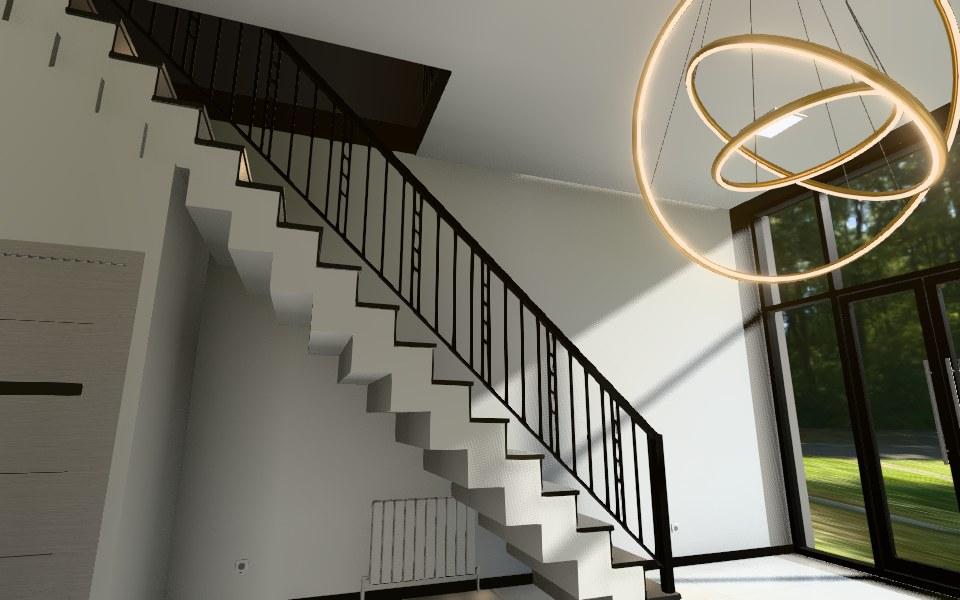
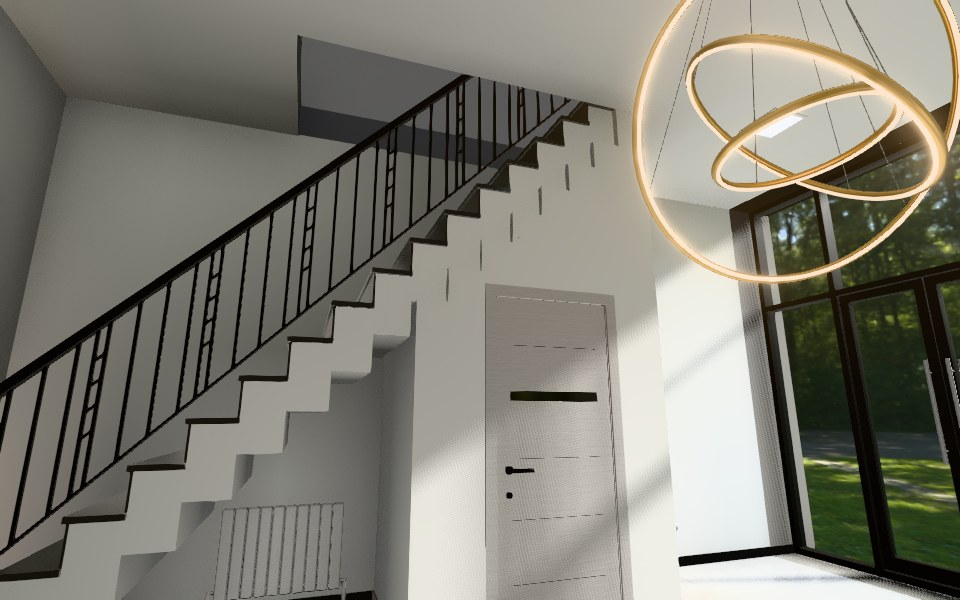
2-qavat: zina teshigi, kichik xona va tambur rasmlarga moslandi
- Zina sharqdan g'arbga ko'tariladi, 2-qavatga kichik xona ro'parasida chiqadi
- Teshik x 2.60-4.90; panjara shimoliy tomonda va sharqiy uchida
- Kichik xona (g'arbiy devor yonida) va eshiksiz tambur (ichida metall eshik)
- G'arbiy fasad: faqat burchakdagi tor oyna; gaz qozon ustun yuzasida
- 1-qavat: zina yo'nalishi o'zgardi, omborxona zinaning yuqori uchi ostida

Claude-Session: https://claude.ai/code/session_01P9pQftsdzTnGheRvDppN9w

diff --git a/web/src/stair.js b/web/src/stair.js
@@ -8,27 +8,28 @@ export function buildStair( mats ) {
 
 	const root = new THREE.Group();
 	root.name = 'stair';
-	const { x0, z0, z1, risers, rise: r, going: g } = STAIR;
+	const { x0, x1, z0, z1, risers, rise: r, going: g } = STAIR;
 	const steps = risers - 1;
 	const b = new Batch();
 
-	// Pog'onalar: oq suvoqli blok (pastki tomoni zinapoya shaklida), qora granit qoplama
+	// Pog'onalar (i = 0 — eng pastki, sharqda): oq suvoqli blok (pastki tomoni zinapoya shaklida),
+	// qora granit qoplama. Yurish yo'nalishi — g'arbga.
 	const underside = ( i ) => i * r - 0.18;
 	for ( let i = 0; i < steps; i ++ ) {
 
-		const sx = x0 + i * g;
+		const xe = x1 - i * g; // pog'onaning old (sharqiy) qirrasi
+		const xw = xe - g;
 		const top = ( i + 1 ) * r;
 		let bot = underside( i );
 		if ( bot < 0.15 ) bot = 0;
-		b.add( mats.plaster, box( sx, sx + g + 0.001, bot, top - 0.03, z0, z1 ) );
-		b.add( mats.granite, box( sx - 0.025, sx + g, top - 0.03, top, z0 - 0.02, z1 ) ); // pog'ona yuzasi
-		b.add( mats.granite, box( sx - 0.012, sx, top - r, top - 0.03, z0, z1 ) ); // tik yuza
+		b.add( mats.plaster, box( xw - 0.001, xe, bot, top - 0.03, z0, z1 ) );
+		b.add( mats.granite, box( xw, xe + 0.025, top - 0.03, top, z0 - 0.02, z1 ) ); // pog'ona yuzasi
+		b.add( mats.granite, box( xe, xe + 0.012, top - r, top - 0.03, z0, z1 ) ); // tik yuza
 
 	}
 
-	// Oxirgi (18-) ko'tarilish — orayopma qirrasi
-	b.add( mats.granite, box( STAIR.x1 - 0.012, STAIR.x1, FF - r, FF, z0, z1 ) );
-	b.add( mats.granite, box( STAIR.x1, 6.5, FF - 0.04, FF - 0.01, z0 - 0.02, z1 ) );
+	// Oxirgi (18-) ko'tarilish — 2-qavat orayopmasi qirrasi
+	b.add( mats.granite, box( x0, x0 + 0.012, FF - r, FF - 0.01, z0, z1 ) );
 
 	root.add( b.build( { name: 'steps' } ) );
 
@@ -44,8 +45,8 @@ export function buildStair( mats ) {
 
 function pitch( x ) {
 
-	const { x0, rise: r, going: g } = STAIR;
-	return r + ( x - x0 ) * r / g;
+	const { x1, rise: r, going: g } = STAIR;
+	return r + ( x1 - x ) * r / g;
 
 }
 
@@ -57,29 +58,30 @@ function buildRailings( mats ) {
 	const HR = 0.92; // tutqich balandligi
 	const BR = 0.1; // pastki planka
 
-	const xa = STAIR.x0 + 0.03, xb = STAIR.x1;
+	const xa = STAIR.x1 - 0.03, xb = STAIR.x0; // pastki (sharq) → yuqori (g'arb)
 	// qiya tutqich va pastki planka
 	b.add( M, beam( V( xa, pitch( xa ) + HR, zr ), V( xb, pitch( xb ) + HR, zr ), 0.045, 0.045 ) );
 	b.add( M, beam( V( xa, pitch( xa ) + BR, zr ), V( xb, pitch( xb ) + BR, zr ), 0.012, 0.04 ) );
-	// boshlang'ich ustuncha
+	// boshlang'ich ustuncha (pastda, sharqda)
 	b.add( M, box( xa - 0.03, xa + 0.03, 0, pitch( xa ) + HR + 0.03, zr - 0.03, zr + 0.03 ) );
 
 	// Balyasinalar (geometrik naqsh: yakka + "zinapoya" juftlik)
-	panelPattern( b, M, xa + 0.06, xb - 0.04, ( x ) => pitch( x ) + BR, ( x ) => pitch( x ) + HR, ( x, y0, y1 ) => [ V( x, y0, zr ), V( x, y1, zr ) ], 'x' );
+	panelPattern( b, M, xb + 0.04, xa - 0.06, ( x ) => pitch( x ) + BR, ( x ) => pitch( x ) + HR, ( x, y0, y1 ) => [ V( x, y0, zr ), V( x, y1, zr ) ], 'x' );
 
-	// 2-qavatdagi to'siq (teshik atrofida)
+	// 2-qavatdagi to'siq: teshikning shimoliy tomoni va sharqiy uchi (g'arb uchi — chiqish maydonchasi)
 	const y0 = FF;
 	const zn = OPENING.z0 - 0.04;
-	const xw = OPENING.x0 - 0.04;
-	b.add( M, box( xw - 0.0225, xb + 0.0225, y0 + HR - 0.0225, y0 + HR + 0.0225, zn - 0.0225, zn + 0.0225 ) );
-	b.add( M, box( xw, xb, y0 + BR - 0.006, y0 + BR + 0.006, zn - 0.02, zn + 0.02 ) );
-	b.add( M, box( xw - 0.0225, xw + 0.0225, y0 + HR - 0.0225, y0 + HR + 0.0225, zn, OPENING.z1 ) );
-	b.add( M, box( xw - 0.02, xw + 0.02, y0 + BR - 0.006, y0 + BR + 0.006, zn, OPENING.z1 ) );
-	b.add( M, box( xw - 0.03, xw + 0.03, y0, y0 + HR + 0.03, zn - 0.03, zn + 0.03 ) );
+	const xw = OPENING.x0;
+	const xe = OPENING.x1 + 0.04;
+	b.add( M, box( xw - 0.0225, xe + 0.0225, y0 + HR - 0.0225, y0 + HR + 0.0225, zn - 0.0225, zn + 0.0225 ) );
+	b.add( M, box( xw, xe, y0 + BR - 0.006, y0 + BR + 0.006, zn - 0.02, zn + 0.02 ) );
+	b.add( M, box( xe - 0.0225, xe + 0.0225, y0 + HR - 0.0225, y0 + HR + 0.0225, zn, OPENING.z1 ) );
+	b.add( M, box( xe - 0.02, xe + 0.02, y0 + BR - 0.006, y0 + BR + 0.006, zn, OPENING.z1 ) );
+	for ( const x of [ xw, xe ] ) b.add( M, box( x - 0.03, x + 0.03, y0, y0 + HR + 0.03, zn - 0.03, zn + 0.03 ) );
 	// tayanch ustunchalar (pastki planka polga)
-	for ( let x = xw + 0.6; x < xb; x += 0.6 ) b.add( M, box( x - 0.01, x + 0.01, y0, y0 + BR, zn - 0.01, zn + 0.01 ) );
-	panelPattern( b, M, xw + 0.06, xb - 0.04, () => y0 + BR, () => y0 + HR, ( x, a, c ) => [ V( x, a, zn ), V( x, c, zn ) ], 'x' );
-	panelPattern( b, M, zn + 0.06, OPENING.z1 - 0.04, () => y0 + BR, () => y0 + HR, ( z, a, c ) => [ V( xw, a, z ), V( xw, c, z ) ], 'z' );
+	for ( let x = xw + 0.6; x < xe; x += 0.6 ) b.add( M, box( x - 0.01, x + 0.01, y0, y0 + BR, zn - 0.01, zn + 0.01 ) );
+	panelPattern( b, M, xw + 0.06, xe - 0.06, () => y0 + BR, () => y0 + HR, ( x, a, c ) => [ V( x, a, zn ), V( x, c, zn ) ], 'x' );
+	panelPattern( b, M, zn + 0.06, OPENING.z1 - 0.04, () => y0 + BR, () => y0 + HR, ( z, a, c ) => [ V( xe, a, z ), V( xe, c, z ) ], 'z' );
 
 	return b.build( { name: 'railing' } );
 
@@ -126,31 +128,33 @@ function buildWC( mats ) {
 	const { rise: r, going: g } = STAIR;
 	const b = new Batch();
 
-	// Old devor: pastki qirrasi zinapoya ostiga mos (zinapoyasimon)
-	const pts = [ [ x0, 0 ], [ door.x0, 0 ], [ door.x0, door.h ], [ door.x1, door.h ], [ door.x1, 0 ], [ x1, 0 ], [ x1, H ], [ STAIR.x1, H ] ];
-	for ( let i = STAIR.risers - 2; i >= 0; i -- ) {
+	// Old devor: yuqori qirrasi zinapoya ostiga mos (zinapoyasimon), g'arb uchi — shiftgacha
+	const pts = [ [ x0, 0 ], [ door.x0, 0 ], [ door.x0, door.h ], [ door.x1, door.h ], [ door.x1, 0 ], [ x1, 0 ] ];
+	for ( let i = 0; i < STAIR.risers - 1; i ++ ) {
 
-		const sx = STAIR.x0 + i * g;
+		const xe = STAIR.x1 - i * g, xw = xe - g;
+		if ( xw >= x1 ) continue;
 		const y = Math.max( 0, i * r - 0.18 );
-		const xr = sx + g;
-		if ( xr <= x0 ) break;
-		pts.push( [ Math.min( xr, STAIR.x1 ), y ] );
-		pts.push( [ Math.max( sx, x0 ), y ] );
+		pts.push( [ Math.min( xe, x1 ), y ] );
+		pts.push( [ Math.max( xw, x0 ), y ] );
 
 	}
+
+	pts.push( [ STAIR.x0, H ], [ x0, H ] );
 
 	const shape = new THREE.Shape( pts.map( ( [ x, y ] ) => new THREE.Vector2( x, y ) ) );
 	const eg = new THREE.ExtrudeGeometry( shape, { depth: t, bevelEnabled: false } );
 	eg.translate( 0, 0, z0 );
 	b.add( mats.wall, eg );
 
-	// Yon devor (x = x0)
-	const yi = Math.floor( ( x0 - STAIR.x0 ) / g );
-	b.add( mats.wall, box( x0, x0 + t, 0, yi * r - 0.18, z0 + t, WC.z1 ) );
+	// Yon devorlar
+	const ie = Math.floor( ( STAIR.x1 - x1 ) / g );
+	b.add( mats.wall, box( x1 - t, x1, 0, ie * r - 0.18, z0 + t, WC.z1 ) );
+	b.add( mats.wall, box( x0, x0 + t, 0, H, z0 + t, WC.z1 ) );
 	// Plintus
 	b.add( mats.skirting, box( x0 - 0.012, door.x0 - 0.07, 0, 0.08, z0 - 0.012, z0 ) );
 	b.add( mats.skirting, box( door.x1 + 0.07, x1, 0, 0.08, z0 - 0.012, z0 ) );
-	b.add( mats.skirting, box( x0 - 0.012, x0, 0, 0.08, z0, WC.z1 ) );
+	b.add( mats.skirting, box( x1, x1 + 0.012, 0, 0.08, z0, WC.z1 ) );
 
 	// ---------- Eshik (kulrang eman, qora shisha chiziq) ----------
 	const dz = z0 - 0.0; // xona tomoni

diff --git a/web/src/floor2.js b/web/src/floor2.js
@@ -1,7 +1,7 @@
 import * as THREE from 'three';
 import { RoundedBoxGeometry } from 'three/addons/geometries/RoundedBoxGeometry.js';
 import { OPENING } from './plan.js';
-import { Y2, H2, BEAM_D, ROOF_T, XJ, OUTLINE2, COLS2, GLAZING2, TRANSOMS2, PARTITIONS2, BEAMS2, PANELS2, SPOTS2, RADIATORS2 } from './plan2.js';
+import { Y2, H2, BEAM_D, ROOF_T, XJ, OUTLINE2, COLS2, GLAZING2, TRANSOMS2, PARTITIONS2, BEAMS2, PANELS2, SPOTS2, RADIATORS2, NOOK2 } from './plan2.js';
 import { Batch, box, worldUV } from './geo.js';
 import { buildGlazingRun } from './glazing.js';
 import { addRadiators } from './fixtures.js';
@@ -67,7 +67,22 @@ export function buildFloor2( mats, m2 ) {
 	};
 
 	band( - 0.3, 23.65, - 0.3, 0 );
-	band( - 0.3, 0, 0, 8.75 );
+	band( - 0.3, 0, 0, 1.9 );
+	w.add( W, box( - 0.3, 0, yb, yt, 1.9, 8.75 ) ); // g'arbiy devor (oynasiz qism)
+
+	// Tambur old devori: o'rtasida eshiksiz o'tish joyi
+	{
+
+		const n = NOOK2, t0 = n.x1 - 0.12;
+		w.add( W, box( t0, n.x1, Y2, TOP, n.z0, n.open[ 0 ] ) );
+		w.add( W, box( t0, n.x1, Y2 + DOOR_H + 0.15, TOP, n.open[ 0 ], n.open[ 1 ] ) );
+		w.add( W, box( t0, n.x1, Y2, TOP, n.open[ 1 ], n.z1 ) );
+		// o'tish joyi ramkasi
+		for ( const z of n.open ) w.add( m2.pvc, box( t0 - 0.01, n.x1 + 0.01, Y2, Y2 + DOOR_H + 0.15, z - 0.03, z + 0.03 ) );
+		w.add( m2.pvc, box( t0 - 0.01, n.x1 + 0.01, Y2 + DOOR_H + 0.12, Y2 + DOOR_H + 0.18, n.open[ 0 ], n.open[ 1 ] ) );
+
+	}
+
 	band( 15.7, 16.0, 9.93, 14.95 );
 	band( 16.4, 18.75, 17.01, 17.31 );
 	band( 20.65, 22.95, 17.01, 17.31 );
@@ -105,11 +120,13 @@ export function buildFloor2( mats, m2 ) {
 	const skz = ( z, x0, x1, side ) => w.add( S, box( x0, x1, Y2, Y2 + SK_H, z, z + side * SK_T ) );
 	skx( 23.35, 1.0, 3.57, - 1 ); skx( 23.35, 4.56, 9.0, - 1 ); skx( 23.35, 9.95, 11.6, - 1 );
 	skx( 23.35, 11.72, 14.95, - 1 ); skx( 23.35, 15.94, 16.45, - 1 );
-	skz( 8.75, 0.0, OPENING.x0 - 0.05, - 1 ); skz( 8.75, OPENING.x1, 15.375, - 1 );
+	skz( 8.75, 2.0, OPENING.x0, - 1 ); skz( 8.75, OPENING.x1 + 0.05, 15.375, - 1 );
+	skx( 0, 4.18, 5.6, 1 ); skx( 0.75, 3.8, 3.68, 1 );
+	skx( 2.0, 5.6, 8.75, 1 ); skz( 5.6, 0, 0.28, - 1 ); skz( 5.6, 1.22, 2.0, - 1 ); skx( 1.4, 1.9, 2.35, 1 ); skx( 1.4, 3.25, 3.8, 1 );
 	skx( 15.375, 4.56, 8.75, - 1 ); skx( 15.55, 4.56, 8.75, 1 );
 	skx( 16.0, 8.75, 8.94, 1 );
 	let sx = 16.0;
-	for ( const d of doors ) {
+	for ( const d of doors.filter( ( q ) => q.x0 > 15 ) ) {
 
 		skz( 11.6, sx, d.x0 - 0.07, - 1 ); skz( 11.72, sx, d.x0 - 0.07, 1 ); sx = d.x1 + 0.07;
 
@@ -135,8 +152,8 @@ export function buildFloor2( mats, m2 ) {
 
 	// ---------- Eshiklar ----------
 	for ( const d of doors ) addDoor( w, m2, d );
-	// chap blokdagi to'q rangli metall eshik (rasm 02)
-	addSurfaceDoor( w, m2, 1.15, 2.05, 8.75 );
+	// tambur ichidagi to'q rangli metall eshik (rasm 02, 12, 13) — g'arbiy devorda
+	addSurfaceDoorX( w, m2, 2.35, 3.25, 0 );
 
 	// Zina teshigi atrofidagi pol qirrasi va ostona chiziqlari
 	w.add( m2.threshold, box( XJ - 0.015, XJ + 0.015, Y2, Y2 + 0.004, 1.0, 3.57 ) );
@@ -144,7 +161,7 @@ export function buildFloor2( mats, m2 ) {
 
 	// ---------- Radiatorlar, gaz qozon, rozetkalar ----------
 	addRadiators( w, m2, RADIATORS2, Y2 );
-	addBoiler( w, m2, 23.35, 2.3 );
+	addBoiler( w, m2, 7.59, 1.0, 0 ); // rasm 12: qozon ustunning janubiy yuzasida
 	for ( const [ x, z, nx, nz ] of [ [ 23.35, 6.0, - 1, 0 ], [ 9.0, 8.75, 0, - 1 ], [ 15.375, 5.4, - 1, 0 ], [ 17.0, 11.72, 0, 1 ], [ 22.6, 11.72, 0, 1 ], [ 19.0, 11.6, 0, - 1 ] ] ) addSocket( w, m2, x, Y2 + 0.32, z, nx, nz );
 
 	root.add( w.build( { name: 'floor2-walls' } ) );
@@ -258,19 +275,19 @@ function addDoor( b, m2, d ) {
 
 }
 
-// Devor yuzasiga o'rnatilgan metall eshik (janubiy devor, shimolga qaragan)
-function addSurfaceDoor( b, m2, x0, x1, z ) {
+// Devor yuzasidagi metall eshik (x = const devor, sharqqa qaragan)
+function addSurfaceDoorX( b, m2, z0, z1, x ) {
 
-	b.add( m2.metalDoor, box( x0 - 0.05, x1 + 0.05, Y2, Y2 + DOOR_H + 0.05, z - 0.02, z ) );
-	b.add( m2.metalDoor, box( x0, x1, Y2 + 0.005, Y2 + DOOR_H, z - 0.045, z - 0.02 ) );
-	for ( let y = 0.3; y < DOOR_H - 0.1; y += 0.16 ) b.add( m2.blackMetal, box( x0 + 0.06, x1 - 0.06, Y2 + y, Y2 + y + 0.006, z - 0.047, z - 0.044 ) );
-	b.add( m2.chrome, box( x1 - 0.16, x1 - 0.04, Y2 + 1.0, Y2 + 1.02, z - 0.1, z - 0.08 ) );
+	b.add( m2.metalDoor, box( x, x + 0.02, Y2, Y2 + DOOR_H + 0.05, z0 - 0.05, z1 + 0.05 ) );
+	b.add( m2.metalDoor, box( x + 0.02, x + 0.045, Y2 + 0.005, Y2 + DOOR_H, z0, z1 ) );
+	for ( let y = 0.3; y < DOOR_H - 0.1; y += 0.16 ) b.add( m2.blackMetal, box( x + 0.044, x + 0.047, Y2 + y, Y2 + y + 0.006, z0 + 0.06, z1 - 0.06 ) );
+	b.add( m2.chrome, box( x + 0.08, x + 0.1, Y2 + 1.0, Y2 + 1.02, z1 - 0.16, z1 - 0.04 ) );
 
 }
 
-function addBoiler( b, m2, x, z ) {
+function addBoiler( b, m2, x, z, rotY = - Math.PI / 2 ) {
 
-	const m = new THREE.Matrix4().makeRotationY( - Math.PI / 2 ).setPosition( x, Y2, z );
+	const m = new THREE.Matrix4().makeRotationY( rotY ).setPosition( x, Y2, z );
 	b.add( m2.boiler, new RoundedBoxGeometry( 0.42, 0.72, 0.3, 3, 0.03 ).translate( 0, 1.75, 0.16 ), m );
 	b.add( m2.boilerGrey, box( - 0.17, 0.17, 1.4, 1.43, 0.04, 0.29 ), m );
 	b.add( m2.darkGlass, box( - 0.08, 0.08, 1.62, 1.68, 0.305, 0.312 ), m );

diff --git a/web/src/plan2.js b/web/src/plan2.js
@@ -42,16 +42,25 @@ export const GLAZING2 = [
 	{ id: 'n1', a: [ 0.75, G ], b: [ 7.3, G ], mullions: [ 1.62, 3.27, 4.92 ], sash: [ 1 ] },
 	{ id: 'n2', a: [ 7.875, G ], b: [ 15.375, G ], mullions: [ 1.5, 3.0, 4.5, 6.0 ], sash: [ 2 ] },
 	{ id: 'n3', a: [ 15.95, G ], b: [ 23.2, G ], mullions: [ 1.45, 2.9, 4.35, 5.8 ], sash: [ 1, 3 ] },
-	{ id: 'w1', a: [ G, 3.68 ], b: [ G, 0.53 ], mullions: [ 1.57 ], sash: [ 0 ] },
-	{ id: 'w2', a: [ G, 8.75 ], b: [ G, 4.18 ], mullions: [ 1.52, 3.05 ], sash: [ 1 ] },
+	// G'arbiy fasad: faqat shimoliy burchakdagi tor oyna (rasm 12): qolgani devor, kichik xona va eshik o'rni
+	{ id: 'w1', a: [ G, 1.9 ], b: [ G, 0.53 ], mullions: [ 0.69 ], sash: [] },
 	{ id: 'e-w', a: [ 16.0 + G, 14.95 ], b: [ 16.0 + G, 9.93 ], mullions: [ 1.25, 2.5, 3.75 ], sash: [ 1 ] },
 	{ id: 's-a', a: [ 18.75, 17.01 - G ], b: [ 16.4, 17.01 - G ], mullions: [ 0.6, 1.75 ], sash: [ 1 ] },
 	{ id: 's-b', a: [ 22.95, 17.01 - G ], b: [ 20.65, 17.01 - G ], mullions: [ 0.55, 1.75 ], sash: [ 1 ] },
 ];
 export const TRANSOMS2 = [ 0.9, 3.0 ];
 
+// Zina ro'parasidagi kichik xona (rasm 12: zina teshigi uning devoriga taqaladi)
+export const SMALLROOM2 = { x0: 0, x1: 2.0, z0: 5.6, z1: 8.75 };
+// Orqadagi kichik ochiq joy (tambur): ichida to'q rangli metall eshik (rasm 12, 13)
+export const NOOK2 = { x0: 0, x1: 1.4, z0: 1.9, z1: 3.68, open: [ 2.35, 3.25 ] };
+
 // Ichki devorlar: [x0, x1, z0, z1] (balandligi to'liq)
 export const PARTITIONS2 = [
+	{ x0: 0, x1: 2.0, z0: 5.6, z1: 5.72, doors: [ [ 0.35, 1.15, 'white' ] ] }, // kichik xona shimoliy devori
+	{ x0: 1.88, x1: 2.0, z0: 5.72, z1: 8.75 }, // kichik xona sharqiy devori (zina shu devorga taqaladi)
+	{ x0: 0, x1: 1.4, z0: 1.78, z1: 1.9 }, // tambur shimoliy devori
+	{ x0: 0.75, x1: 1.4, z0: 3.68, z1: 3.8 }, // tambur janubiy devori (ustungacha)
 	{ x0: 15.375, x1: 15.55, z0: 4.56, z1: 8.75 }, // chap blok va o'ng qanot orasidagi devor
 	{ x0: 16.0, x1: 23.35, z0: 11.6, z1: 11.72, doors: [ [ 17.25, 18.15, 'pvc' ], [ 19.25, 20.05, 'white' ], [ 21.2, 22.1, 'pvc' ] ] },
 	{ x0: 18.75, x1: 18.87, z0: 11.72, z1: 17.01 },
@@ -86,7 +95,9 @@ export const PANELS2 = ( () => {
 
 			const x = xa + ( i + 0.5 ) * ( xb - xa ) / nx;
 			const z = za + ( k + 0.5 ) * ( zb - za ) / nz;
-			if ( x > 3.6 && x < 6.6 && z > 7.2 ) continue; // zina teshigi ustida emas
+			if ( x > 2.2 && x < 5.2 && z > 7.2 ) continue; // zina teshigi ustida emas
+			if ( x < 2.1 && z > 5.5 ) continue; // kichik xona
+			if ( x < 1.5 && z > 1.7 && z < 3.9 ) continue; // tambur
 			out.push( [ x, z ] );
 
 		}

diff --git a/web/src/plan.js b/web/src/plan.js
@@ -33,9 +33,10 @@ export const GLAZING = [
 	{ id: 'west-s', a: [GLASS_LINE, 8.75], b: [GLASS_LINE, 4.18], mullions: [0.8, 2.25, 3.4], transom: 2.45, doors: [{ t0: 0.8, t1: 2.25, h: 2.45 }] },
 ];
 
-// Zina: janubiy devor bo'ylab, g'arbdan sharqqa ko'tariladi
+// Zina: janubiy devor bo'ylab, SHARQDAN G'ARBGA ko'tariladi (2-qavat rasmlari: 2-qavatga g'arb uchida,
+// kichik xona ro'parasida chiqadi). x1 — pastki pog'ona (sharq), x0 — yuqori chiqish (g'arb).
 export const STAIR = {
-	x0: 2.37,
+	x0: 2.6,
 	x1: 6.3,
 	z0: 7.6,
 	z1: 8.75,
@@ -44,11 +45,11 @@ export const STAIR = {
 STAIR.rise = FF / STAIR.risers;
 STAIR.going = ( STAIR.x1 - STAIR.x0 ) / ( STAIR.risers - 1 );
 
-// Shiftdagi zina teshigi
-export const OPENING = { x0: 3.9, x1: 6.3, z0: 7.55, z1: 8.75 };
+// Shiftdagi (2-qavat polidagi) zina teshigi — yuqori uchi ustida
+export const OPENING = { x0: 2.6, x1: 4.9, z0: 7.55, z1: 8.75 };
 
-// Zina ostidagi xona (WC / omborxona) va eshik
-export const WC = { x0: 5.44, x1: 6.5, z0: 7.55, z1: 8.75, t: 0.1, door: { x0: 5.58, x1: 6.38, h: 2.05 } };
+// Zina yuqori uchi ostidagi kichik xona (omborxona) va eshik
+export const WC = { x0: 2.37, x1: 4.1, z0: 7.55, z1: 8.75, t: 0.1, door: { x0: 2.8, x1: 3.6, h: 2.05 } };
 
 // Qandillar
 export const CHANDELIERS = [
@@ -66,7 +67,7 @@ export const PANELS = [
 
 // Radiatorlar: markaz, devor normali yo'nalishi (xonaga), seksiyalar soni
 export const RADIATORS = [
-	{ x: 3.75, z: 8.75, nx: 0, nz: - 1, n: 10 },
+	{ x: 4.75, z: 8.75, nx: 0, nz: - 1, n: 10 },
 	{ x: 7.3, z: 2.2, nx: - 1, nz: 0, n: 10 },
 	{ x: 7.3, z: 5.05, nx: - 1, nz: 0, n: 8 },
 ];

diff --git a/web/src/main.js b/web/src/main.js
@@ -46,11 +46,11 @@ const VIEWS = [
 	{ floor: 1, id: 'zina', name: 'Zina', pos: [ 4.7, 1.3, 4.7 ], target: [ 3.3, 2.3, 8.7 ] },
 	{ floor: 1, id: 'burchak', name: 'Burchak', pos: [ 6.4, 1.6, 0.7 ], target: [ 1.0, 1.4, 6.8 ] },
 	{ floor: 1, id: 'tepadan', name: 'Tepadan', pos: [ 1.2, 12.5, 11.0 ], target: [ 3.65, 0, 4.4 ] },
-	{ floor: 2, id: 'zal', name: 'Zal', pos: [ 13.8, 3.9 + 1.6, 7.6 ], target: [ 0.8, 3.9 + 1.4, 1.6 ] },
+	{ floor: 2, id: 'zal', name: 'Zal', pos: [ 13.8, 3.9 + 1.6, 7.9 ], target: [ 2.0, 3.9 + 1.2, 3.0 ] },
 	{ floor: 2, id: 'qanot', name: 'Qanot', pos: [ 19.6, 3.9 + 1.6, 11.1 ], target: [ 19.4, 3.9 + 1.45, 0.5 ] },
 	{ floor: 2, id: 'ustunlar', name: 'Ustunlar', pos: [ 22.4, 3.9 + 1.65, 1.3 ], target: [ 12.0, 3.9 + 1.0, 7.5 ] },
 	{ floor: 2, id: 'ofis', name: 'Ofis xona', pos: [ 17.4, 3.9 + 1.55, 12.1 ], target: [ 17.4, 3.9 + 1.4, 17.0 ] },
-	{ floor: 2, id: 'zina2', name: 'Zina', pos: [ 9.2, 3.9 + 1.6, 5.8 ], target: [ 4.6, 3.9 + 0.3, 8.2 ] },
+	{ floor: 2, id: 'zina2', name: 'Zina', pos: [ 8.3, 3.9 + 1.55, 2.1 ], target: [ 0.4, 3.9 + 1.2, 5.9 ] },
 	{ floor: 2, id: 'tepadan2', name: 'Tepadan', pos: [ 5.5, 3.9 + 15.5, 22.5 ], target: [ 11.7, 3.9, 8.0 ] },
 ];
 
@@ -238,7 +238,9 @@ async function main() {
 				...COLS2.map( ( c ) => [ c.x0, c.x1, c.z0, c.z1 ] ),
 				...PARTITIONS2.slice( 0, 1 ).map( ( c ) => [ c.x0, c.x1, c.z0, c.z1 ] ),
 				[ 16.0, 23.35, 11.6, 17.01 ],
-				[ 3.85, 6.5, 7.45, 8.75 ],
+				[ 2.55, 4.95, 7.45, 8.75 ],
+				[ 0, 2.0, 5.6, 8.75 ],
+				[ 0, 1.4, 1.78, 3.8 ],
 			],
 		},
 	};

diff --git a/web/src/walk.js b/web/src/walk.js
@@ -21,7 +21,7 @@ export class WalkControls {
 			poly: ROOM, eye: EYE, start: [ 2.2, 6.2 ],
 			blockers: [
 				...COLUMNS.map( ( c ) => [ c.x0, c.x1, c.z0, c.z1 ] ),
-				[ STAIR.x0 - 0.05, 6.5, STAIR.z0 - 0.05, 8.75 ],
+				[ STAIR.x0 - 0.05, STAIR.x1 + 0.1, STAIR.z0 - 0.05, 8.75 ],
 				[ WC.x0, WC.x1, WC.z0, WC.z1 ],
 			],
 		};

diff --git a/docs/TZ-2-qavat.md b/docs/TZ-2-qavat.md
@@ -70,7 +70,11 @@
 | Ofis A (janubi-g'arb) | 2.75 × 5.3 m, janub va g'arb tomonlari oyna | rasm 08 (oynadan ko'cha va mashinalar ko'rinadi) |
 | Ofis B (janubi-sharq) | 2.55 × 5.3 m, janubi oyna | rasm 04 |
 | Yoritish | chap blok va ofislarda 0.45 m kvadrat panellar, o'ng qanot zalida yumaloq spotlar; ochiq qora kabellar to'sinlar ostidan aylanib o'tadi | rasm 02, 05, 06, 07 |
-| Zina teshigi | 1-qavatdagi qora geometrik panjara; janubiy devorda to'q metall eshik | rasm 02, 07 |
+| Zina teshigi | **x 2.60…4.90**, janubiy devor bo'ylab; panjara shimoliy tomonda va sharqiy uchida, g'arb uchi — chiqish maydonchasi | izoh-rasmlar 10…13 |
+| Kichik xona | zina ro'parasida, g'arbiy devor yonida: x 0…2.0, z 5.6…8.75, eshigi shimol tomonda | izoh-rasm 12 |
+| Tambur (kichik ochiq joy) | g'arbiy devorda, x 0…1.4, z 1.9…3.68; eshiksiz o'tish joyi, ichida to'q rangli metall eshik | izoh-rasmlar 12, 13 |
+| G'arbiy fasad | faqat shimoliy burchakda tor oyna (z 0.53…1.9), qolgani devor | izoh-rasm 12 |
+| Gaz qozon | ichki ustunning (x 7.3) yon yuzasida | rasm 02, izoh-rasm 12 |
 
 ## 7. Ochiq savollar (tasdiqlansa, raqam `plan2.js` da o'zgaradi)
 1. Shift balandligi 4.00 m to'g'rimi?

diff --git a/docs/TZ-1-qavat.md b/docs/TZ-1-qavat.md
@@ -90,6 +90,6 @@ Diagnostika uchun URL parametrlari: `?q=low` (kuchsiz GPU), `?view=zina`, `?exp=
 1. **Shift balandligi 3.60 m.** Rasmdagi fasad eshiklari va 3.15 m oraliq nisbatidan baholandi.
 2. **O'ng (sharqiy) devor va qiya burchak — g'isht devor.** Rejada uch chiziq bilan (oyna kabi) chizilgan, lekin rasmlarda oq devor va radiatorlar ko'rinadi. Shuning uchun devor qilindi; `plan.js` dan oynaga o'zgartirish oson.
 3. **Fasadda 2 ta eshik.** Rejada faqat pastki eshik bor, rasmda esa ikkala oraliqda ham eshik ko'rinadi.
-4. **Zina:** bitta to'g'ri marsh, 2.37 m dan boshlanib 6.30 m da 2-qavatga chiqadi. Qiyaligi ~43°, rasmlardagidek tik. Eshik zina ostidagi xonaga ochiladi.
+4. **Zina (yangilandi):** bitta to'g'ri marsh, janubiy devor bo'ylab **sharqdan g'arbga** ko'tariladi (6.30 m dan 2.60 m gacha), 2-qavatga kichik xona ro'parasida chiqadi. Bu 2-qavatning haqiqiy rasmlaridan aniqlandi; 1-qavat rasmlari taxminiy edi. Zinaning yuqori uchi ostida kichik omborxona bor (x 2.37…4.10), eshigi shimolga qaragan.
 5. Plitka o'lchami 80×80 sm (rasmda 60×120 ham bo'lishi mumkin).
 6. Oyna tashqarisidagi manzara — vaqtinchalik HDRI. Haqiqiy ko'cha surati bo'lsa, almashtiriladi.
